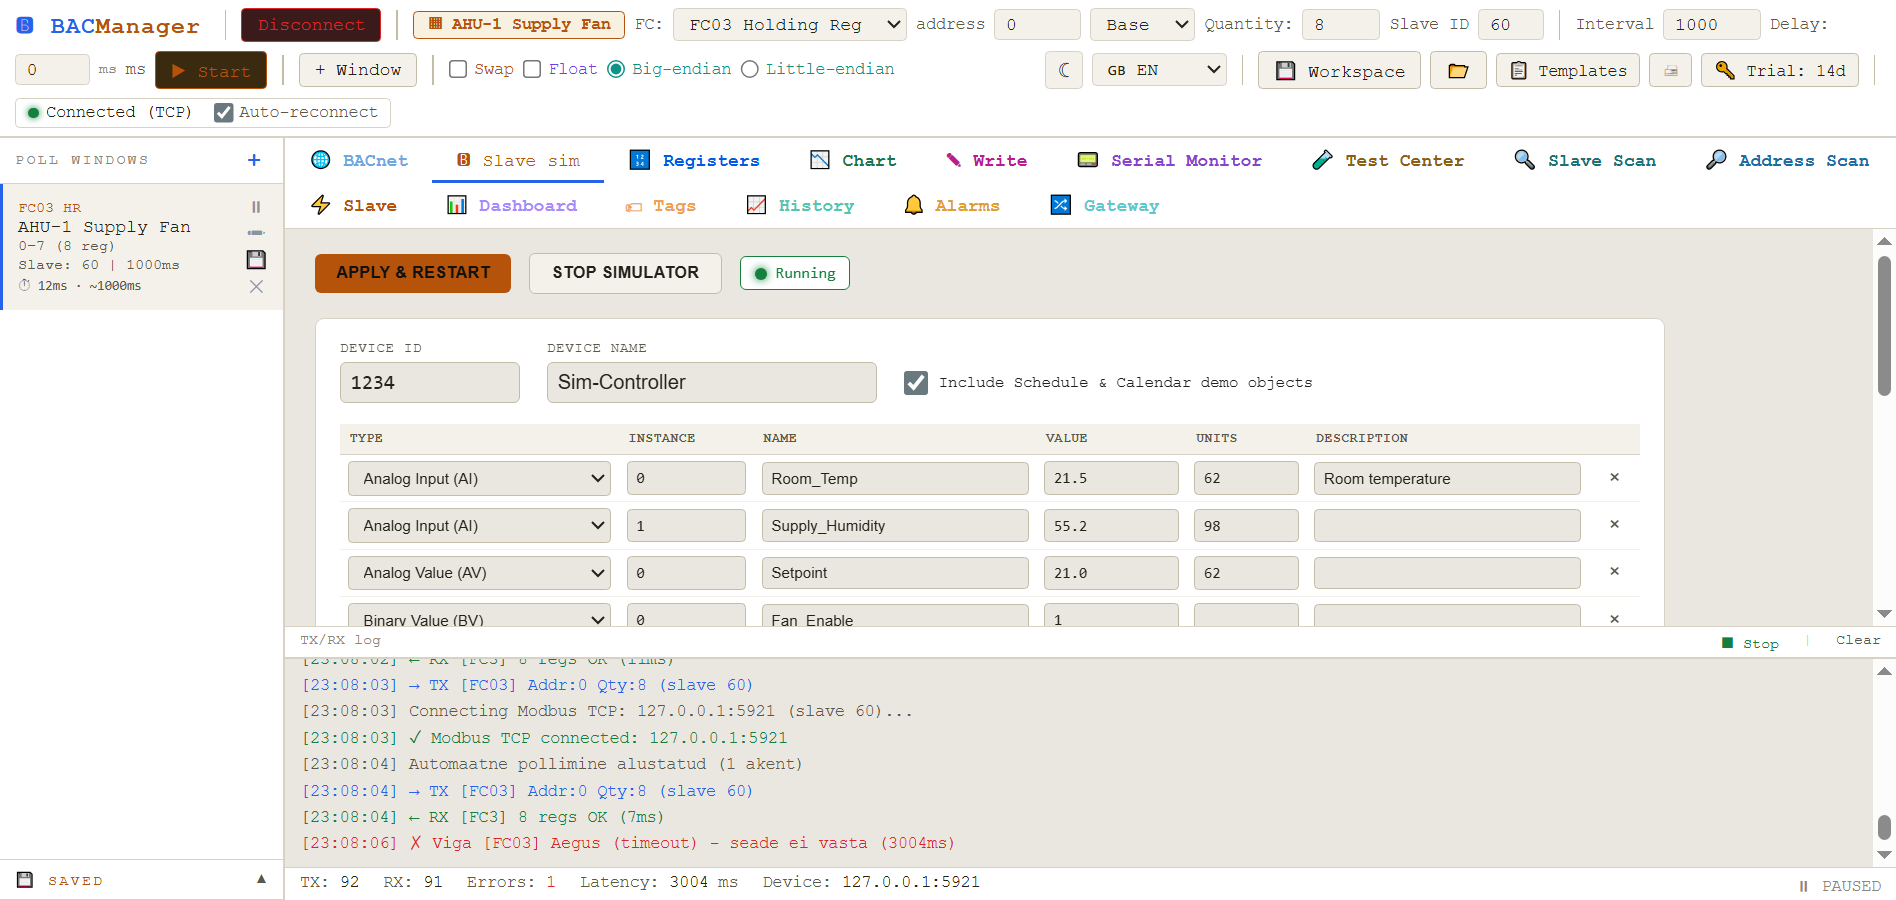
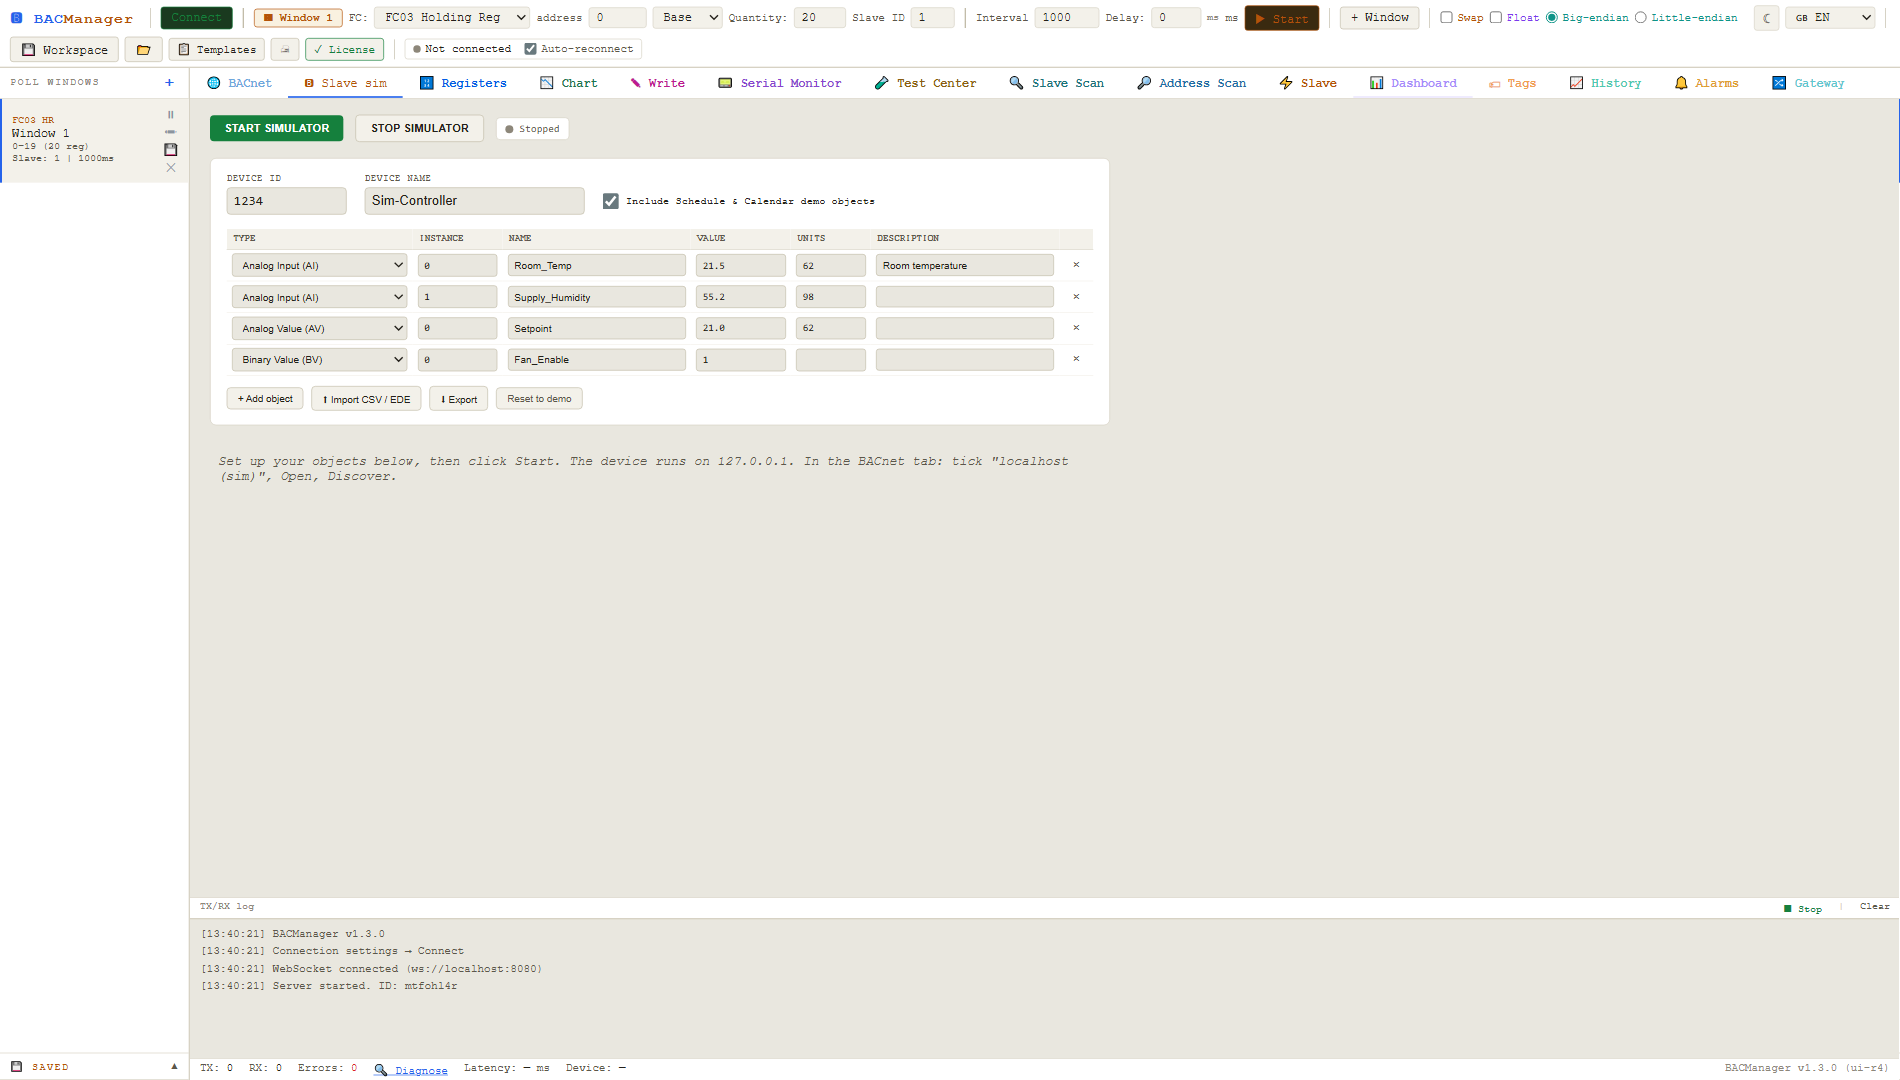
Fix Estonian text in bac-simulator.png, add Gateway screenshot
Replace bac-simulator.png with a clean English capture (the old one had
leftover Estonian log text from a translation bug). Add a real screenshot
of the bidirectional Gateway to bacnet-modbus-gateway.html, which had no
screenshot before. Also fix leftover ModbusManager (mm-*) branding in
license-terms.html and privacy.html (og:image, GA id, consent banner ids)
that should have been bac-* for this site.

diff --git a/privacy.html b/privacy.html
@@ -12,11 +12,11 @@
 <meta property="og:description" content="How BACManager (E-Netter OU) handles your data under GDPR. The software is offline and collects no telemetry.">
 <meta property="og:url" content="https://bacmanager.com/privacy.html">
 <meta property="og:type" content="website">
-<meta property="og:image" content="https://bacmanager.com/og-hmi.png">
+<meta property="og:image" content="https://bacmanager.com/og-bacmanager.png">
 <meta name="twitter:card" content="summary_large_image">
 <meta name="twitter:title" content="Privacy Policy | BACManager">
 <meta name="twitter:description" content="How BACManager (E-Netter OU) handles your data under GDPR. The software is offline and collects no telemetry.">
-<meta name="twitter:image" content="https://bacmanager.com/og-hmi.png">
+<meta name="twitter:image" content="https://bacmanager.com/og-bacmanager.png">
 
 <link rel="icon" href="/favicon.ico" sizes="any">
 <link rel="icon" type="image/png" sizes="48x48" href="/favicon-48.png">
@@ -190,7 +190,7 @@ nav .nav-links.open .nav-drop-menu a{padding:0.35rem 0;font-size:0.8rem}
 
 
 <!-- Google Analytics -->
-<script async src="https://www.googletagmanager.com/gtag/js?id=G-42Q8HEKC0X"></script>
+<script async src="https://www.googletagmanager.com/gtag/js?id=G-HGQC0VZ6MK"></script>
 <script>
   window.dataLayer = window.dataLayer || [];
   function gtag(){dataLayer.push(arguments);}
@@ -201,9 +201,9 @@ nav .nav-links.open .nav-drop-menu a{padding:0.35rem 0;font-size:0.8rem}
     'ad_personalization': 'denied',
     'analytics_storage': 'denied'
   });
-  try { if (localStorage.getItem('mm_consent') === 'granted') { gtag('consent', 'update', {'analytics_storage': 'granted'}); } } catch(e) {}
+  try { if (localStorage.getItem('bac_consent') === 'granted') { gtag('consent', 'update', {'analytics_storage': 'granted'}); } } catch(e) {}
   gtag('js', new Date());
-  gtag('config', 'G-42Q8HEKC0X');
+  gtag('config', 'G-HGQC0VZ6MK');
 </script>
 <script type="application/ld+json">
 {"@context": "https://schema.org","@type": "BreadcrumbList","itemListElement": [{"@type": "ListItem","position": 1,"name": "BACManager","item": "https://bacmanager.com/"},{"@type": "ListItem","position": 2,"name": "Privacy Policy","item": "https://bacmanager.com/privacy.html"}]}
@@ -345,35 +345,35 @@ nav .nav-links.open .nav-drop-menu a{padding:0.35rem 0;font-size:0.8rem}
 
 <!-- Cookie consent (Google Analytics) -->
 <style>
-#mm-consent{position:fixed;left:0;right:0;bottom:0;z-index:9999;background:var(--ink,#16181A);color:#E6E8E3;border-top:3px solid var(--safety,#F2A900);padding:1rem 1.4rem;display:none;font-family:'Archivo',sans-serif;font-size:0.88rem;line-height:1.5}
-#mm-consent.show{display:flex;gap:1rem 1.4rem;align-items:center;flex-wrap:wrap;justify-content:center}
-#mm-consent p{margin:0;max-width:720px}
-#mm-consent a{color:var(--safety,#F2A900);text-decoration:underline}
-#mm-consent .mm-btns{display:flex;gap:.6rem;flex-shrink:0}
-#mm-consent button{font-family:'IBM Plex Mono',monospace;font-size:.72rem;letter-spacing:.04em;text-transform:uppercase;padding:.6rem 1.1rem;border:2px solid var(--safety,#F2A900);border-radius:3px;cursor:pointer}
-#mm-consent .mm-accept{background:var(--safety,#F2A900);color:var(--ink,#16181A);font-weight:600}
-#mm-consent .mm-decline{background:transparent;color:var(--safety,#F2A900)}
+#bac-consent{position:fixed;left:0;right:0;bottom:0;z-index:9999;background:var(--ink,#16181A);color:#E6E8E3;border-top:3px solid var(--safety,#F2A900);padding:1rem 1.4rem;display:none;font-family:'Archivo',sans-serif;font-size:0.88rem;line-height:1.5}
+#bac-consent.show{display:flex;gap:1rem 1.4rem;align-items:center;flex-wrap:wrap;justify-content:center}
+#bac-consent p{margin:0;max-width:720px}
+#bac-consent a{color:var(--safety,#F2A900);text-decoration:underline}
+#bac-consent .bac-btns{display:flex;gap:.6rem;flex-shrink:0}
+#bac-consent button{font-family:'IBM Plex Mono',monospace;font-size:.72rem;letter-spacing:.04em;text-transform:uppercase;padding:.6rem 1.1rem;border:2px solid var(--safety,#F2A900);border-radius:3px;cursor:pointer}
+#bac-consent .bac-accept{background:var(--safety,#F2A900);color:var(--ink,#16181A);font-weight:600}
+#bac-consent .bac-decline{background:transparent;color:var(--safety,#F2A900)}
 </style>
-<div id="mm-consent" role="dialog" aria-label="Cookie consent">
+<div id="bac-consent" role="dialog" aria-label="Cookie consent">
   <p>We use Google Analytics cookies to see how the site is used. You can accept or decline &mdash; declining keeps analytics off. See our <a href="/privacy.html">Privacy Policy</a>.</p>
-  <div class="mm-btns">
-    <button class="mm-decline" type="button" onclick="mmConsent(false)">Decline</button>
-    <button class="mm-accept" type="button" onclick="mmConsent(true)">Accept</button>
+  <div class="bac-btns">
+    <button class="bac-decline" type="button" onclick="bacConsent(false)">Decline</button>
+    <button class="bac-accept" type="button" onclick="bacConsent(true)">Accept</button>
   </div>
 </div>
 <script>
 (function(){
   function apply(g){ if(typeof gtag==='function'){ gtag('consent','update',{'analytics_storage': g?'granted':'denied'}); } }
-  window.mmConsent=function(ok){
-    try{ localStorage.setItem('mm_consent', ok?'granted':'denied'); }catch(e){}
+  window.bacConsent=function(ok){
+    try{ localStorage.setItem('bac_consent', ok?'granted':'denied'); }catch(e){}
     apply(ok);
-    var b=document.getElementById('mm-consent'); if(b){ b.classList.remove('show'); }
+    var b=document.getElementById('bac-consent'); if(b){ b.classList.remove('show'); }
   };
   function init(){
-    var c=null; try{ c=localStorage.getItem('mm_consent'); }catch(e){}
+    var c=null; try{ c=localStorage.getItem('bac_consent'); }catch(e){}
     if(c==='granted'){ apply(true); }
     else if(c==='denied'){ apply(false); }
-    else { var b=document.getElementById('mm-consent'); if(b){ b.classList.add('show'); } }
+    else { var b=document.getElementById('bac-consent'); if(b){ b.classList.add('show'); } }
   }
   if(document.readyState==='loading'){ document.addEventListener('DOMContentLoaded', init); } else { init(); }
 })();

diff --git a/license-terms.html b/license-terms.html
@@ -12,11 +12,11 @@
 <meta property="og:description" content="BACManager software license terms and conditions for the Standard and Pro editions.">
 <meta property="og:url" content="https://bacmanager.com/license-terms.html">
 <meta property="og:type" content="website">
-<meta property="og:image" content="https://bacmanager.com/og-hmi.png">
+<meta property="og:image" content="https://bacmanager.com/og-bacmanager.png">
 <meta name="twitter:card" content="summary_large_image">
 <meta name="twitter:title" content="License Terms | BACManager">
 <meta name="twitter:description" content="BACManager software license terms and conditions for the Standard and Pro editions.">
-<meta name="twitter:image" content="https://bacmanager.com/og-hmi.png">
+<meta name="twitter:image" content="https://bacmanager.com/og-bacmanager.png">
 
 <link rel="icon" href="/favicon.ico" sizes="any">
 <link rel="icon" type="image/png" sizes="48x48" href="/favicon-48.png">
@@ -188,7 +188,7 @@ nav .nav-links.open .nav-drop-menu a{padding:0.35rem 0;font-size:0.8rem}
 
 
 <!-- Google Analytics -->
-<script async src="https://www.googletagmanager.com/gtag/js?id=G-42Q8HEKC0X"></script>
+<script async src="https://www.googletagmanager.com/gtag/js?id=G-HGQC0VZ6MK"></script>
 <script>
   window.dataLayer = window.dataLayer || [];
   function gtag(){dataLayer.push(arguments);}
@@ -199,9 +199,9 @@ nav .nav-links.open .nav-drop-menu a{padding:0.35rem 0;font-size:0.8rem}
     'ad_personalization': 'denied',
     'analytics_storage': 'denied'
   });
-  try { if (localStorage.getItem('mm_consent') === 'granted') { gtag('consent', 'update', {'analytics_storage': 'granted'}); } } catch(e) {}
+  try { if (localStorage.getItem('bac_consent') === 'granted') { gtag('consent', 'update', {'analytics_storage': 'granted'}); } } catch(e) {}
   gtag('js', new Date());
-  gtag('config', 'G-42Q8HEKC0X');
+  gtag('config', 'G-HGQC0VZ6MK');
 </script>
 <script type="application/ld+json">
 {"@context": "https://schema.org","@type": "BreadcrumbList","itemListElement": [{"@type": "ListItem","position": 1,"name": "BACManager","item": "https://bacmanager.com/"},{"@type": "ListItem","position": 2,"name": "License Terms","item": "https://bacmanager.com/license-terms.html"}]}
@@ -303,35 +303,35 @@ nav .nav-links.open .nav-drop-menu a{padding:0.35rem 0;font-size:0.8rem}
 
 <!-- Cookie consent (Google Analytics) -->
 <style>
-#mm-consent{position:fixed;left:0;right:0;bottom:0;z-index:9999;background:var(--ink,#16181A);color:#E6E8E3;border-top:3px solid var(--safety,#F2A900);padding:1rem 1.4rem;display:none;font-family:'Archivo',sans-serif;font-size:0.88rem;line-height:1.5}
-#mm-consent.show{display:flex;gap:1rem 1.4rem;align-items:center;flex-wrap:wrap;justify-content:center}
-#mm-consent p{margin:0;max-width:720px}
-#mm-consent a{color:var(--safety,#F2A900);text-decoration:underline}
-#mm-consent .mm-btns{display:flex;gap:.6rem;flex-shrink:0}
-#mm-consent button{font-family:'IBM Plex Mono',monospace;font-size:.72rem;letter-spacing:.04em;text-transform:uppercase;padding:.6rem 1.1rem;border:2px solid var(--safety,#F2A900);border-radius:3px;cursor:pointer}
-#mm-consent .mm-accept{background:var(--safety,#F2A900);color:var(--ink,#16181A);font-weight:600}
-#mm-consent .mm-decline{background:transparent;color:var(--safety,#F2A900)}
+#bac-consent{position:fixed;left:0;right:0;bottom:0;z-index:9999;background:var(--ink,#16181A);color:#E6E8E3;border-top:3px solid var(--safety,#F2A900);padding:1rem 1.4rem;display:none;font-family:'Archivo',sans-serif;font-size:0.88rem;line-height:1.5}
+#bac-consent.show{display:flex;gap:1rem 1.4rem;align-items:center;flex-wrap:wrap;justify-content:center}
+#bac-consent p{margin:0;max-width:720px}
+#bac-consent a{color:var(--safety,#F2A900);text-decoration:underline}
+#bac-consent .bac-btns{display:flex;gap:.6rem;flex-shrink:0}
+#bac-consent button{font-family:'IBM Plex Mono',monospace;font-size:.72rem;letter-spacing:.04em;text-transform:uppercase;padding:.6rem 1.1rem;border:2px solid var(--safety,#F2A900);border-radius:3px;cursor:pointer}
+#bac-consent .bac-accept{background:var(--safety,#F2A900);color:var(--ink,#16181A);font-weight:600}
+#bac-consent .bac-decline{background:transparent;color:var(--safety,#F2A900)}
 </style>
-<div id="mm-consent" role="dialog" aria-label="Cookie consent">
+<div id="bac-consent" role="dialog" aria-label="Cookie consent">
   <p>We use Google Analytics cookies to see how the site is used. You can accept or decline &mdash; declining keeps analytics off. See our <a href="/privacy.html">Privacy Policy</a>.</p>
-  <div class="mm-btns">
-    <button class="mm-decline" type="button" onclick="mmConsent(false)">Decline</button>
-    <button class="mm-accept" type="button" onclick="mmConsent(true)">Accept</button>
+  <div class="bac-btns">
+    <button class="bac-decline" type="button" onclick="bacConsent(false)">Decline</button>
+    <button class="bac-accept" type="button" onclick="bacConsent(true)">Accept</button>
   </div>
 </div>
 <script>
 (function(){
   function apply(g){ if(typeof gtag==='function'){ gtag('consent','update',{'analytics_storage': g?'granted':'denied'}); } }
-  window.mmConsent=function(ok){
-    try{ localStorage.setItem('mm_consent', ok?'granted':'denied'); }catch(e){}
+  window.bacConsent=function(ok){
+    try{ localStorage.setItem('bac_consent', ok?'granted':'denied'); }catch(e){}
     apply(ok);
-    var b=document.getElementById('mm-consent'); if(b){ b.classList.remove('show'); }
+    var b=document.getElementById('bac-consent'); if(b){ b.classList.remove('show'); }
   };
   function init(){
-    var c=null; try{ c=localStorage.getItem('mm_consent'); }catch(e){}
+    var c=null; try{ c=localStorage.getItem('bac_consent'); }catch(e){}
     if(c==='granted'){ apply(true); }
     else if(c==='denied'){ apply(false); }
-    else { var b=document.getElementById('mm-consent'); if(b){ b.classList.add('show'); } }
+    else { var b=document.getElementById('bac-consent'); if(b){ b.classList.add('show'); } }
   }
   if(document.readyState==='loading'){ document.addEventListener('DOMContentLoaded', init); } else { init(); }
 })();

diff --git a/bacnet-modbus-gateway.html b/bacnet-modbus-gateway.html
@@ -197,6 +197,10 @@ footer a:hover{color:#fff}
     </tbody>
   </table>
   <p style="max-width:800px;margin:1.2rem auto 0;text-align:center;color:var(--muted);line-height:1.6;font-size:0.85rem">Both directions run from the same Gateway configuration, at the same time, on the same PC.</p>
+  <figure style="margin:1.6rem auto 0;max-width:1100px;border:2px solid var(--ink);border-radius:3px;overflow:hidden;background:var(--plate)">
+    <img src="bac-gateway-bidirectional.png" alt="BACManager Gateway tab configured with a Modbus source endpoint, a read row mapping a Modbus register to a BACnet AI object, a write row mapping a BACnet AV object back to a Modbus register, and the BMS-side BACnet/IP server panel enabled" loading="lazy" style="display:block;width:100%;height:auto" onerror="this.closest('figure').style.display='none'">
+    <figcaption style="font-family:'IBM Plex Mono',monospace;font-size:0.68rem;color:var(--muted);padding:0.6rem 0.9rem;border-top:1px solid var(--steel)">One Gateway config: a Modbus reading exposed as a BACnet object, and a BACnet write forwarded back to a Modbus register</figcaption>
+  </figure>
 </section>
 
 <div class="divider-line"></div>
